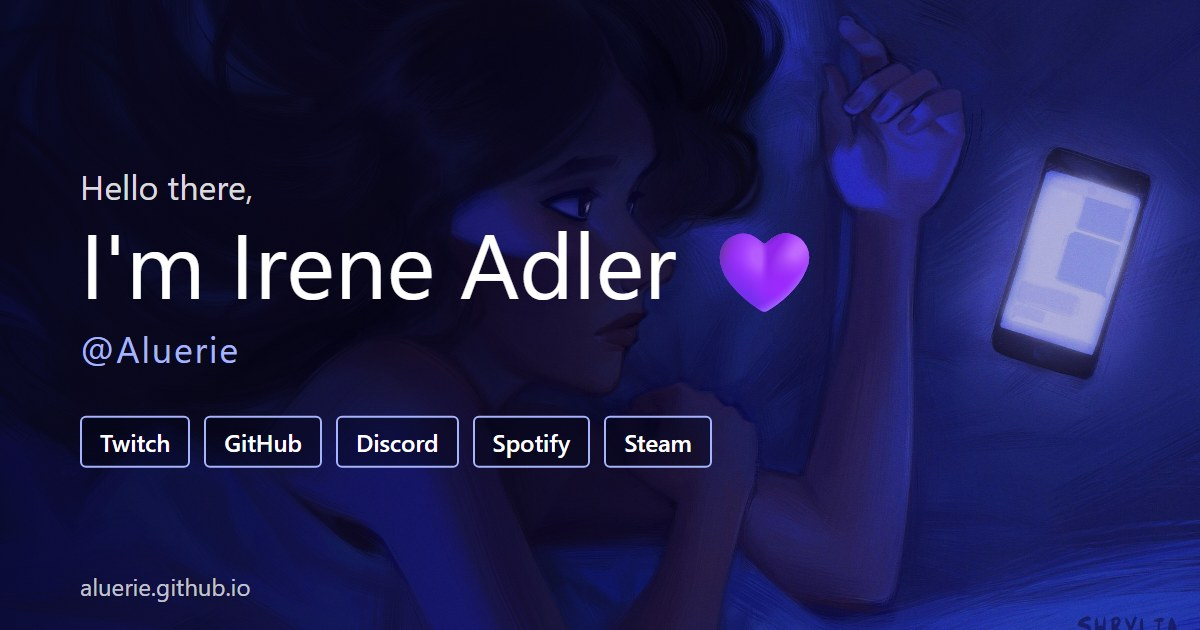
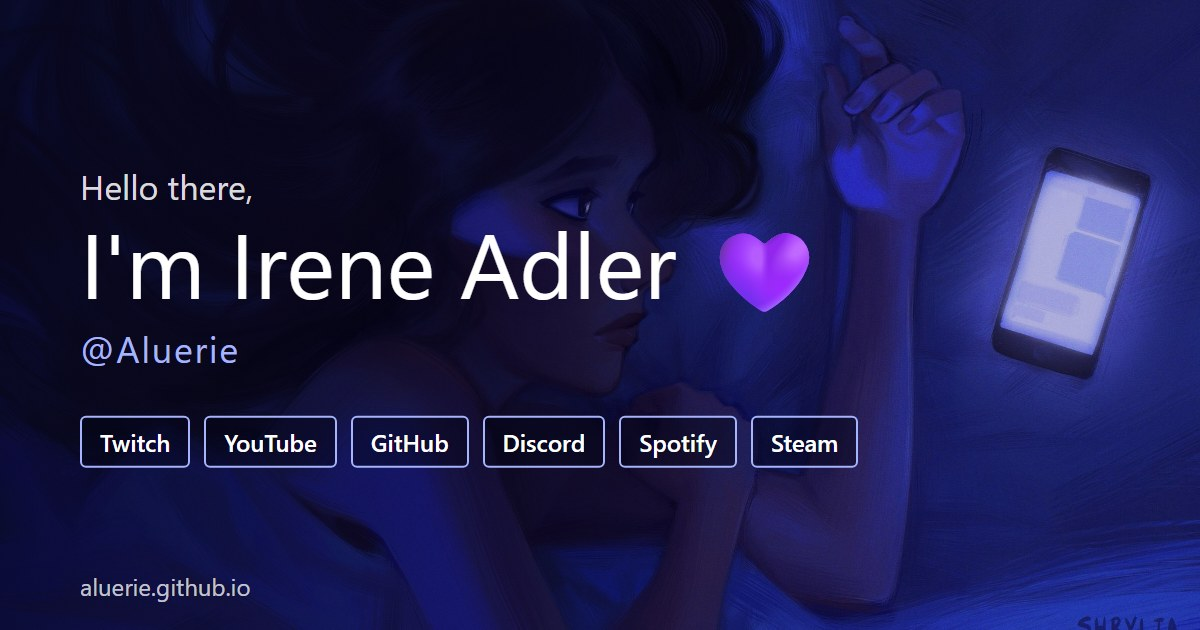
➕ Add YouTube link

Changed region(s): [[0.185, 0.6333, 0.74, 0.754]]

diff --git a/index.html b/index.html
@@ -52,6 +52,7 @@
               "type": 1,
               "components": [
                 { "type": 2, "style": 5, "label": "Twitch", "emoji": { "name": "🎦" }, "url": "https://www.twitch.tv/irene_adler__" },
+                { "type": 2, "style": 5, "label": "YouTube", "emoji": { "name": "▶" }, "url": "https://www.youtube.com/@Aluerie" },
                 { "type": 2, "style": 5, "label": "GitHub", "emoji": { "name": "💻" }, "url": "https://github.com/Aluerie" },
                 { "type": 2, "style": 5, "label": "Discord (DM)", "emoji": { "name": "💬" }, "url": "https://discord.com/users/312204139751014400" },
                 { "type": 2, "style": 5, "label": "Discord (Server)", "emoji": { "name": "🏠" }, "url": "https://discord.gg/K8FuDeP" }
@@ -83,6 +84,7 @@
          License - https://fontawesome.com/license/free (Icons: CC BY 4.0) -->
     <svg class="sprite" aria-hidden="true">
         <symbol id="i-twitch" viewBox="0 0 512 512"><path d="M391.17,103.47H352.54v109.7h38.63ZM285,103H246.37V212.75H285ZM120.83,0,24.31,91.42V420.58H140.14V512l96.53-91.42h77.25L487.69,256V0ZM449.07,237.75l-77.22,73.12H294.61l-67.6,64v-64H140.14V36.58H449.07Z"/></symbol>
+        <symbol id="i-youtube" viewBox="0 0 576 512"><path d="M549.655 124.083c-6.281-23.65-24.787-42.276-48.284-48.597C458.781 64 288 64 288 64S117.22 64 74.629 75.486c-23.497 6.322-42.003 24.947-48.284 48.597-11.412 42.867-11.412 132.305-11.412 132.305s0 89.438 11.412 132.305c6.281 23.65 24.787 41.5 48.284 47.821C117.22 448 288 448 288 448s170.78 0 213.371-11.486c23.497-6.321 42.003-24.171 48.284-47.821 11.412-42.867 11.412-132.305 11.412-132.305s0-89.438-11.412-132.305zm-317.51 213.508V175.185l142.739 81.205-142.739 81.201z"/></symbol>
         <symbol id="i-github" viewBox="0 0 496 512"><path d="M165.9 397.4c0 2-2.3 3.6-5.2 3.6-3.3.3-5.6-1.3-5.6-3.6 0-2 2.3-3.6 5.2-3.6 3-.3 5.6 1.3 5.6 3.6zm-31.1-4.5c-.7 2 1.3 4.3 4.3 4.9 2.6 1 5.6 0 6.2-2s-1.3-4.3-4.3-5.2c-2.6-.7-5.5.3-6.2 2.3zm44.2-1.7c-2.9.7-4.9 2.6-4.6 4.9.3 2 2.9 3.3 5.9 2.6 2.9-.7 4.9-2.6 4.6-4.6-.3-1.9-3-3.2-5.9-2.9zM244.8 8C106.1 8 0 113.3 0 252c0 110.9 69.8 205.8 169.5 239.2 12.8 2.3 17.3-5.6 17.3-12.1 0-6.2-.3-40.4-.3-61.4 0 0-70 15-84.7-29.8 0 0-11.4-29.1-27.8-36.6 0 0-22.9-15.7 1.6-15.4 0 0 24.9 2 38.6 25.8 21.9 38.6 58.6 27.5 72.9 20.9 2.3-16 8.8-27.1 16-33.7-55.9-6.2-112.3-14.3-112.3-110.5 0-27.5 7.6-41.3 23.6-58.9-2.6-6.5-11.1-33.3 2.6-67.9 20.9-6.5 69 27 69 27 20-5.6 41.5-8.5 62.8-8.5s42.8 2.9 62.8 8.5c0 0 48.1-33.6 69-27 13.7 34.7 5.2 61.4 2.6 67.9 16 17.7 25.8 31.5 25.8 58.9 0 96.5-58.9 104.2-114.8 110.5 9.2 7.9 17 22.9 17 46.4 0 33.7-.3 75.4-.3 83.6 0 6.5 4.6 14.4 17.3 12.1C428.2 457.8 496 362.9 496 252 496 113.3 383.5 8 244.8 8zM97.2 352.9c-1.3 1-1 3.3.7 5.2 1.6 1.6 3.9 2.3 5.2 1 1.3-1 1-3.3-.7-5.2-1.6-1.6-3.9-2.3-5.2-1zm-10.8-8.1c-.7 1.3.3 2.9 2.3 3.9 1.6 1 3.6.7 4.3-.7.7-1.3-.3-2.9-2.3-3.9-2-.6-3.6-.3-4.3.7zm32.4 35.6c-1.6 1.3-1 4.3 1.3 6.2 2.3 2.3 5.2 2.6 6.5 1 1.3-1.3.7-4.3-1.3-6.2-2.2-2.3-5.2-2.6-6.5-1zm-11.4-14.7c-1.6 1-1.6 3.6 0 5.9 1.6 2.3 4.3 3.3 5.6 2.3 1.6-1.3 1.6-3.9 0-6.2-1.4-2.3-4-3.3-5.6-2z"/></symbol>
         <symbol id="i-discord" viewBox="0 0 640 512"><path d="M524.531,69.836a1.5,1.5,0,0,0-.764-.7A485.065,485.065,0,0,0,404.081,32.03a1.816,1.816,0,0,0-1.923.91,337.461,337.461,0,0,0-14.9,30.6,447.848,447.848,0,0,0-134.426,0,309.541,309.541,0,0,0-15.135-30.6,1.89,1.89,0,0,0-1.924-.91A483.689,483.689,0,0,0,116.085,69.137a1.712,1.712,0,0,0-.788.676C39.068,183.651,18.186,294.69,28.43,404.354a2.016,2.016,0,0,0,.765,1.375A487.666,487.666,0,0,0,176.02,479.918a1.9,1.9,0,0,0,2.063-.676A348.2,348.2,0,0,0,208.12,430.4a1.86,1.86,0,0,0-1.019-2.588,321.173,321.173,0,0,1-45.868-21.853,1.885,1.885,0,0,1-.185-3.126c3.082-2.309,6.166-4.711,9.109-7.137a1.819,1.819,0,0,1,1.9-.256c96.229,43.917,200.41,43.917,295.5,0a1.812,1.812,0,0,1,1.924.233c2.944,2.426,6.027,4.851,9.132,7.16a1.884,1.884,0,0,1-.162,3.126,301.407,301.407,0,0,1-45.89,21.83,1.875,1.875,0,0,0-1,2.611,391.055,391.055,0,0,0,30.014,48.815,1.864,1.864,0,0,0,2.063.7A486.048,486.048,0,0,0,610.7,405.729a1.882,1.882,0,0,0,.765-1.352C623.729,277.594,590.933,167.465,524.531,69.836ZM222.491,337.58c-28.972,0-52.844-26.587-52.844-59.239S193.056,219.1,222.491,219.1c29.665,0,53.306,26.82,52.843,59.239C275.334,310.993,251.924,337.58,222.491,337.58Zm195.38,0c-28.971,0-52.843-26.587-52.843-59.239S388.437,219.1,417.871,219.1c29.667,0,53.307,26.82,52.844,59.239C470.715,310.993,447.538,337.58,417.871,337.58Z"/></symbol>
         <symbol id="i-spotify" viewBox="0 0 496 512"><path d="M248 8C111.1 8 0 119.1 0 256s111.1 248 248 248 248-111.1 248-248S384.9 8 248 8zm100.7 364.9c-4.2 0-6.8-1.3-10.7-3.6-62.4-37.6-135-39.2-206.7-24.5-3.9 1-9 2.6-11.9 2.6-9.7 0-15.8-7.7-15.8-15.8 0-10.3 6.1-15.2 13.6-16.8 81.9-18.1 165.6-16.5 237 26.2 6.1 3.9 9.7 7.4 9.7 16.5s-7.1 15.4-15.2 15.4zm26.9-65.6c-5.2 0-8.7-2.3-12.3-4.2-62.5-37-155.7-51.9-238.6-29.4-4.8 1.3-7.4 2.6-11.9 2.6-10.7 0-19.4-8.7-19.4-19.4s5.2-17.8 15.5-20.7c27.8-7.8 56.2-13.6 97.8-13.6 64.9 0 127.6 16.1 177 45.5 8.1 4.8 11.3 11 11.3 19.7-.1 10.8-8.5 19.5-19.4 19.5zm31-76.2c-5.2 0-8.4-1.3-12.9-3.9-71.2-42.5-198.5-52.7-280.9-29.7-3.6 1-8.1 2.6-12.9 2.6-13.2 0-23.3-10.3-23.3-23.6 0-13.6 8.4-21.3 17.4-23.9 35.2-10.3 74.6-15.2 117.5-15.2 73 0 149.5 15.2 205.4 47.8 7.8 4.5 12.9 10.7 12.9 22.6 0 13.6-11 23.3-23.2 23.3z"/></symbol>
@@ -103,6 +105,10 @@
         <li>
           <a class="link-btn brand-twitch" href="https://www.twitch.tv/irene_adler__">
             <svg class="icon" aria-hidden="true"><use href="#i-twitch"/></svg><span>Twitch</span></a>
+        </li>
+        <li>
+          <a class="link-btn brand-youtube" href="https://www.youtube.com/@Aluerie">
+            <svg class="icon" aria-hidden="true"><use href="#i-youtube"/></svg><span>YouTube</span></a>
         </li>
         <li>
           <a class="link-btn brand-github" href="https://github.com/Aluerie">

diff --git a/css/style.css b/css/style.css
@@ -177,6 +177,7 @@ button.link-btn {
 
 /* Logo colour each button turns to on hover. */
 .brand-twitch { --brand: #a970ff; }
+.brand-youtube { --brand: #ff0033; }
 .brand-github { --brand: #ffffff; }
 .brand-discord { --brand: #5865f2; }
 .brand-spotify { --brand: #1ed760; }
@@ -222,6 +223,7 @@ button.link-btn {
     li:nth-child(5) { animation-delay: 480ms; }
     li:nth-child(6) { animation-delay: 540ms; }
     li:nth-child(7) { animation-delay: 600ms; }
+    li:nth-child(8) { animation-delay: 660ms; }
 }
 
 .link-btn:focus-visible {

diff --git a/js/eggs.js b/js/eggs.js
@@ -83,7 +83,7 @@
         Steam: { symbol: "i-steam", emoji: "🎮", color: "#1b2838" },
         Email: { symbol: "i-envelope", emoji: "✉", color: "#ea4335" },
         Messages: { emoji: "💬", color: "#34c759" },
-        YouTube: { emoji: "▶", color: "#ff0000" },
+        YouTube: { symbol: "i-youtube", emoji: "▶", color: "#ff0000" },
         Duolingo: { emoji: "🦉", color: "#58cc02" },
         Delivery: { emoji: "🛵", color: "#ff9500" },
         Bank: { emoji: "💳", color: "#0a84ff" },

diff --git a/.github/og-image.html b/.github/og-image.html
@@ -86,7 +86,7 @@
       <h1>I'm Irene Adler 💜</h1>
       <p class="handle">@Aluerie</p>
       <div class="links">
-        <span>Twitch</span><span>GitHub</span><span>Discord</span><span>Spotify</span><span>Steam</span>
+        <span>Twitch</span><span>YouTube</span><span>GitHub</span><span>Discord</span><span>Spotify</span><span>Steam</span>
       </div>
     </div>
     <div class="url">aluerie.github.io</div>
